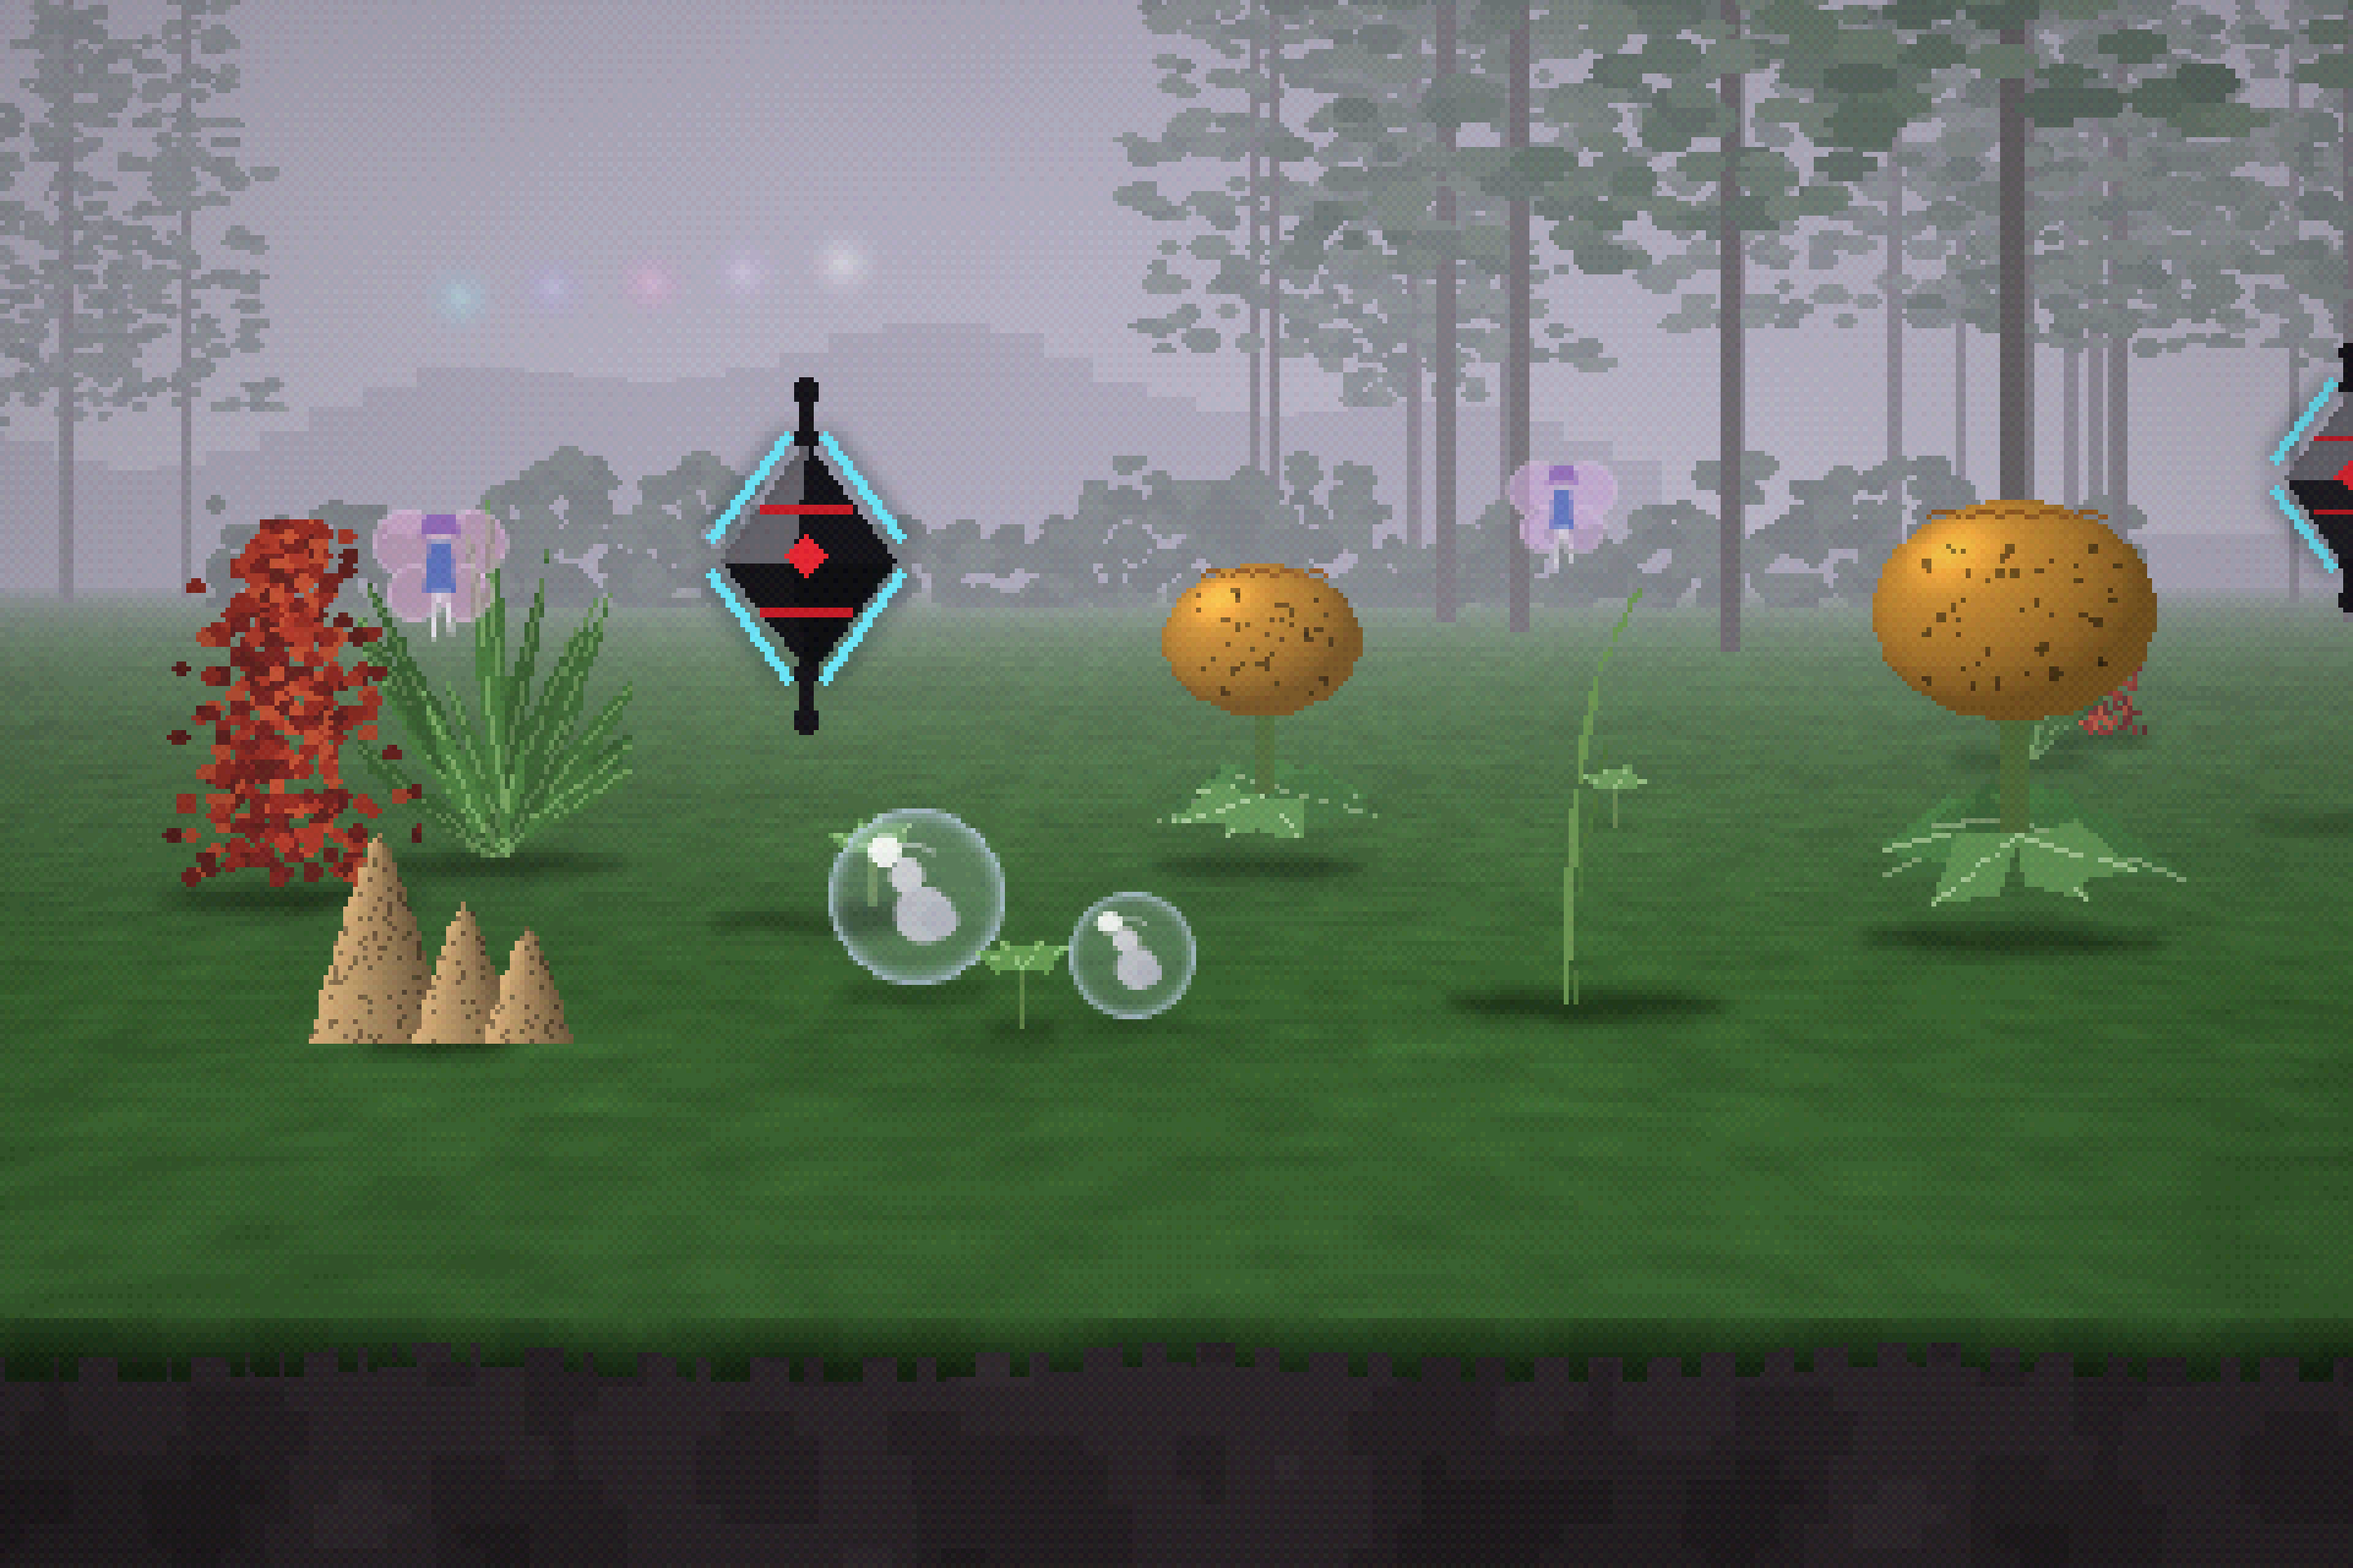
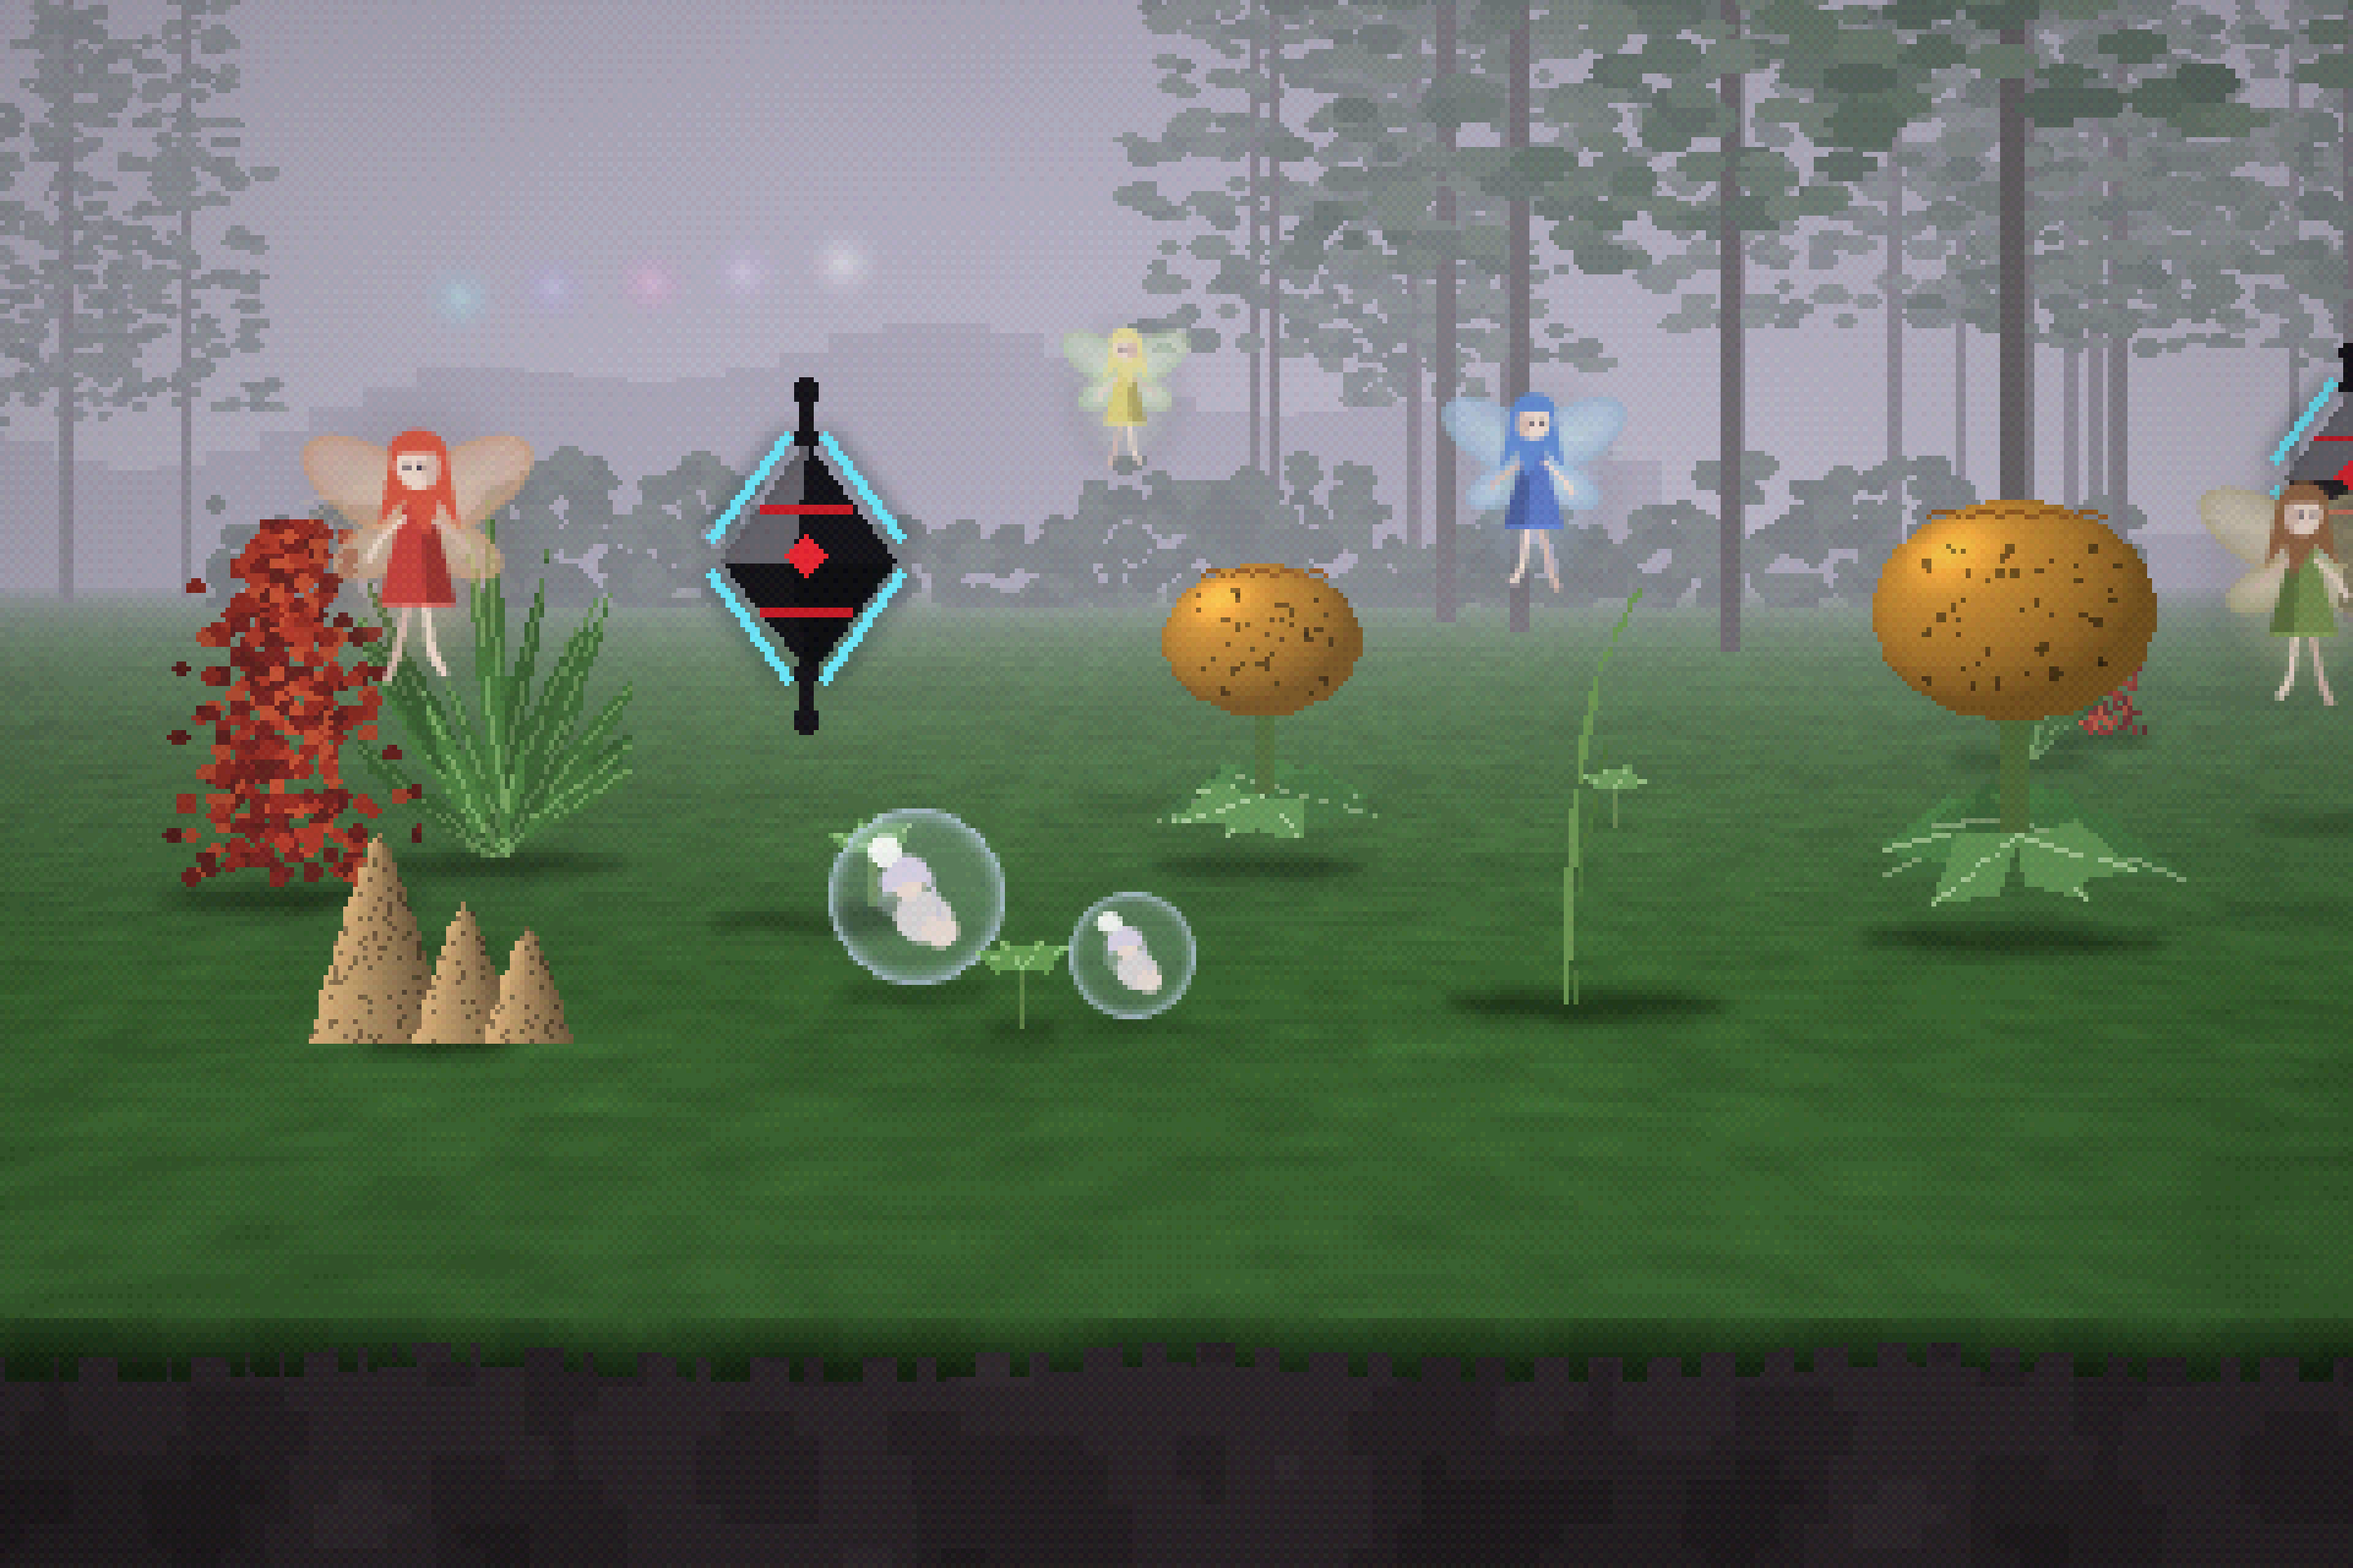
Wallpaper: four elemental pixies in flight, sleepers in the bubbles
Avalon's own pixie design, one per element in the HUD's colours (wind, earth, fire, water):
drawn large with veined see-through wings, dress and streaming hair, then shrunk like a
pre-rendered sprite, with a faint glow of their element. The bubbles hold a small pixie
curled up asleep.

Claude-Session: https://claude.ai/code/session_011dUntRk9LS7esAHpf3oNhr

diff --git a/build/render-garden.py b/build/render-garden.py
@@ -405,28 +405,74 @@ def bubble(seed):
     alpha = (0.18 + 0.7 * rim) * inside
     s = Image.fromarray(np.dstack([col, alpha * 255]).astype(np.uint8), 'RGBA')
     d = ImageDraw.Draw(s)
-    # the sleeper: knees drawn up, head bowed, a wisp of hair
-    d.ellipse([22, 18, 34, 30], fill=(232, 226, 240, 210))           # head
-    d.ellipse([24, 28, 44, 48], fill=(220, 214, 236, 200))           # curled body
-    d.ellipse([34, 34, 46, 46], fill=(210, 204, 230, 200))           # knees
-    d.arc([18, 12, 40, 34], 200, 320, fill=(250, 246, 255, 230))     # hair
+    # the sleeper: a small pixie curled up, knees drawn in, hair falling over them, wings folded
+    d.ellipse([18, 26, 40, 40], fill=(214, 226, 236, 120))           # folded wings
+    d.ellipse([24, 30, 44, 48], fill=(238, 228, 236, 220))           # back and legs, curled
+    d.ellipse([34, 38, 46, 50], fill=(246, 230, 226, 230))           # knees
+    d.ellipse([22, 20, 34, 32], fill=(246, 228, 220, 235))           # head, bowed
+    d.pieslice([19, 17, 37, 35], 150, 360, fill=(222, 214, 236, 240))  # pale hair
+    d.line([(36, 26), (40, 40)], fill=(222, 214, 236, 220), width=2)
     d.ellipse([14, 10, 26, 20], fill=(255, 255, 255, 230))           # the bubble's glint
     return s
 
 
-def pixie(seed, tint):
-    """a small pixie on the wing: four petal wings, a slim figure; an original design"""
-    s = Image.new('RGBA', (60, 72), (0, 0, 0, 0))
+ELEMENTS = {   # Avalon's four elements, as the HUD has them: hair, dress, wing tint
+    'wind':  ((236, 226, 150), (226, 214, 120), (210, 236, 190)),
+    'earth': ((150, 104, 70), (124, 150, 82), (214, 200, 150)),
+    'fire':  ((222, 92, 70), (204, 70, 64), (246, 190, 150)),
+    'water': ((96, 140, 214), (90, 120, 200), (176, 214, 246)),
+}
+
+
+def pixie(element, flip=False):
+    """an elemental pixie in flight, drawn large and shaded, then shrunk like a pre-rendered
+    sprite: two pairs of veined, see-through wings, a dress, flowing hair. Avalon's own design"""
+    hair, dress, wing = ELEMENTS[element]
+    W, H = 160, 190
+    s = Image.new('RGBA', (W, H), (0, 0, 0, 0))
+    # wings: soft gradient ellipses, rotated, with a brighter rim and veins
+    for (cx, cy, rw, rh, ang) in ((52, 62, 44, 22, 30), (108, 62, 44, 22, -30), (58, 98, 30, 15, -25), (102, 98, 30, 15, 25)):
+        yy, xx = np.mgrid[0:120, 0:120].astype(np.float32)
+        t = math.radians(ang)
+        X = ((xx - 60) * math.cos(t) + (yy - 60) * math.sin(t)) / rw
+        Y = (-(xx - 60) * math.sin(t) + (yy - 60) * math.cos(t)) / rh
+        r2 = X * X + Y * Y
+        inside = r2 <= 1
+        al = np.where(inside, 0.45 + 0.5 * r2 ** 3, 0)
+        col = np.ones((120, 120, 3), np.float32) * np.array(wing, np.float32)
+        col = col * (0.85 + 0.3 * (1 - r2[:, :, None]).clip(0, 1))
+        wimg = Image.fromarray(np.dstack([col.clip(0, 255), al * 255]).astype(np.uint8), 'RGBA')
+        wd = ImageDraw.Draw(wimg)
+        for k in (-0.5, 0, 0.5):                           # veins
+            ex = 60 + math.cos(t + k * 0.5) * rw * 0.9
+            ey = 60 + math.sin(t + k * 0.5) * rw * 0.9 * (1 if cx > 80 else 1)
+            wd.line([(60, 60), (ex if cx > 80 else 120 - ex, ey)], fill=tuple(min(255, c + 30) for c in wing) + (150,))
+        s.alpha_composite(wimg, (int(cx - 60), int(cy - 60)))
     d = ImageDraw.Draw(s)
-    wing = tint + (150,)
-    for (x0, y0, x1, y1) in ((2, 6, 30, 34), (30, 6, 58, 34), (8, 30, 30, 52), (30, 30, 52, 52)):
-        d.ellipse([x0, y0, x1, y1], fill=wing, outline=tuple(min(255, c + 50) for c in tint) + (200,))
-    d.ellipse([25, 10, 35, 20], fill=(244, 222, 214, 255))            # head
-    d.polygon([(24, 8), (36, 8), (38, 16), (22, 16)], fill=(150, 110, 190, 255))  # hair
-    d.polygon([(26, 20), (34, 20), (36, 40), (24, 40)], fill=(96, 118, 196, 255))  # tunic
-    d.line([(28, 40), (27, 60)], fill=(236, 230, 240, 255), width=2)  # legs
-    d.line([(32, 40), (34, 58)], fill=(236, 230, 240, 255), width=2)
-    return s
+    skin, skin_sh = (246, 224, 210), (220, 190, 178)
+    # legs, trailing behind as she flies
+    d.line([(76, 122), (68, 160), (62, 176)], fill=skin_sh, width=5)
+    d.line([(84, 122), (88, 158), (96, 172)], fill=skin, width=5)
+    # the dress, shaded down its right side
+    d.polygon([(72, 74), (88, 74), (102, 130), (58, 130)], fill=dress)
+    d.polygon([(82, 74), (88, 74), (102, 130), (86, 130)], fill=tuple(int(c * 0.78) for c in dress))
+    d.line([(60, 130), (100, 130)], fill=tuple(min(255, int(c * 1.2)) for c in dress), width=2)
+    # arms out, as if gliding
+    d.line([(73, 80), (56, 96), (50, 106)], fill=skin, width=4)
+    d.line([(87, 80), (104, 92), (112, 100)], fill=skin_sh, width=4)
+    # head and hair: long, streaming back
+    d.polygon([(66, 40), (96, 40), (104, 86), (92, 70), (86, 92), (72, 70), (58, 84)], fill=hair)
+    d.ellipse([68, 38, 92, 64], fill=skin)
+    d.ellipse([84, 44, 92, 62], fill=skin_sh)
+    d.chord([64, 30, 96, 56], 180, 360, fill=hair)        # fringe
+    d.ellipse([72, 50, 75, 53], fill=(60, 50, 70))         # eyes
+    d.ellipse([80, 50, 83, 53], fill=(60, 50, 70))
+    # a faint glow of her element about her
+    halo = Image.new('RGBA', (W, H), (0, 0, 0, 0))
+    ImageDraw.Draw(halo).ellipse([30, 30, 130, 170], fill=wing + (60,))
+    halo = halo.filter(ImageFilter.GaussianBlur(14))
+    halo.alpha_composite(s)
+    return halo.transpose(Image.FLIP_LEFT_RIGHT) if flip else halo
 
 
 def glow(colour, size=24):
@@ -537,9 +583,11 @@ def render():
         ground_shadow(img, depth, c[0], c[2], r * 1.2, r * 0.7, 0.32)
         beacon(img, depth, c, r)
 
-    # two pixies on the wing
-    for x, y, z, tint in ((-3.0, 1.05, 9.0, (226, 170, 214)), (2.0, 1.3, 11.5, (214, 176, 230))):
-        draw_billboard(img, depth, pixie(1, tint), (x, y, z), 0.7, soft=True)
+    # the four pixies, one of each element, on the wing about the garden
+    for x, y, z, el, flip, size in ((-2.9, 0.95, 8.4, 'fire', False, 1.25), (1.7, 1.25, 10.5, 'water', True, 1.2),
+                                    (-0.3, 1.9, 13.0, 'wind', False, 1.05), (4.7, 0.8, 9.2, 'earth', True, 1.2)):
+        ground_shadow(img, depth, x, z, size * 0.25, size * 0.12, 0.22)
+        draw_billboard(img, depth, pixie(el, flip), (x, y, z), size, soft=True)
 
     # 15-bit colour, ordered dither, then the hard-pixel scale-up
     a = np.clip(img, 0, 255)
